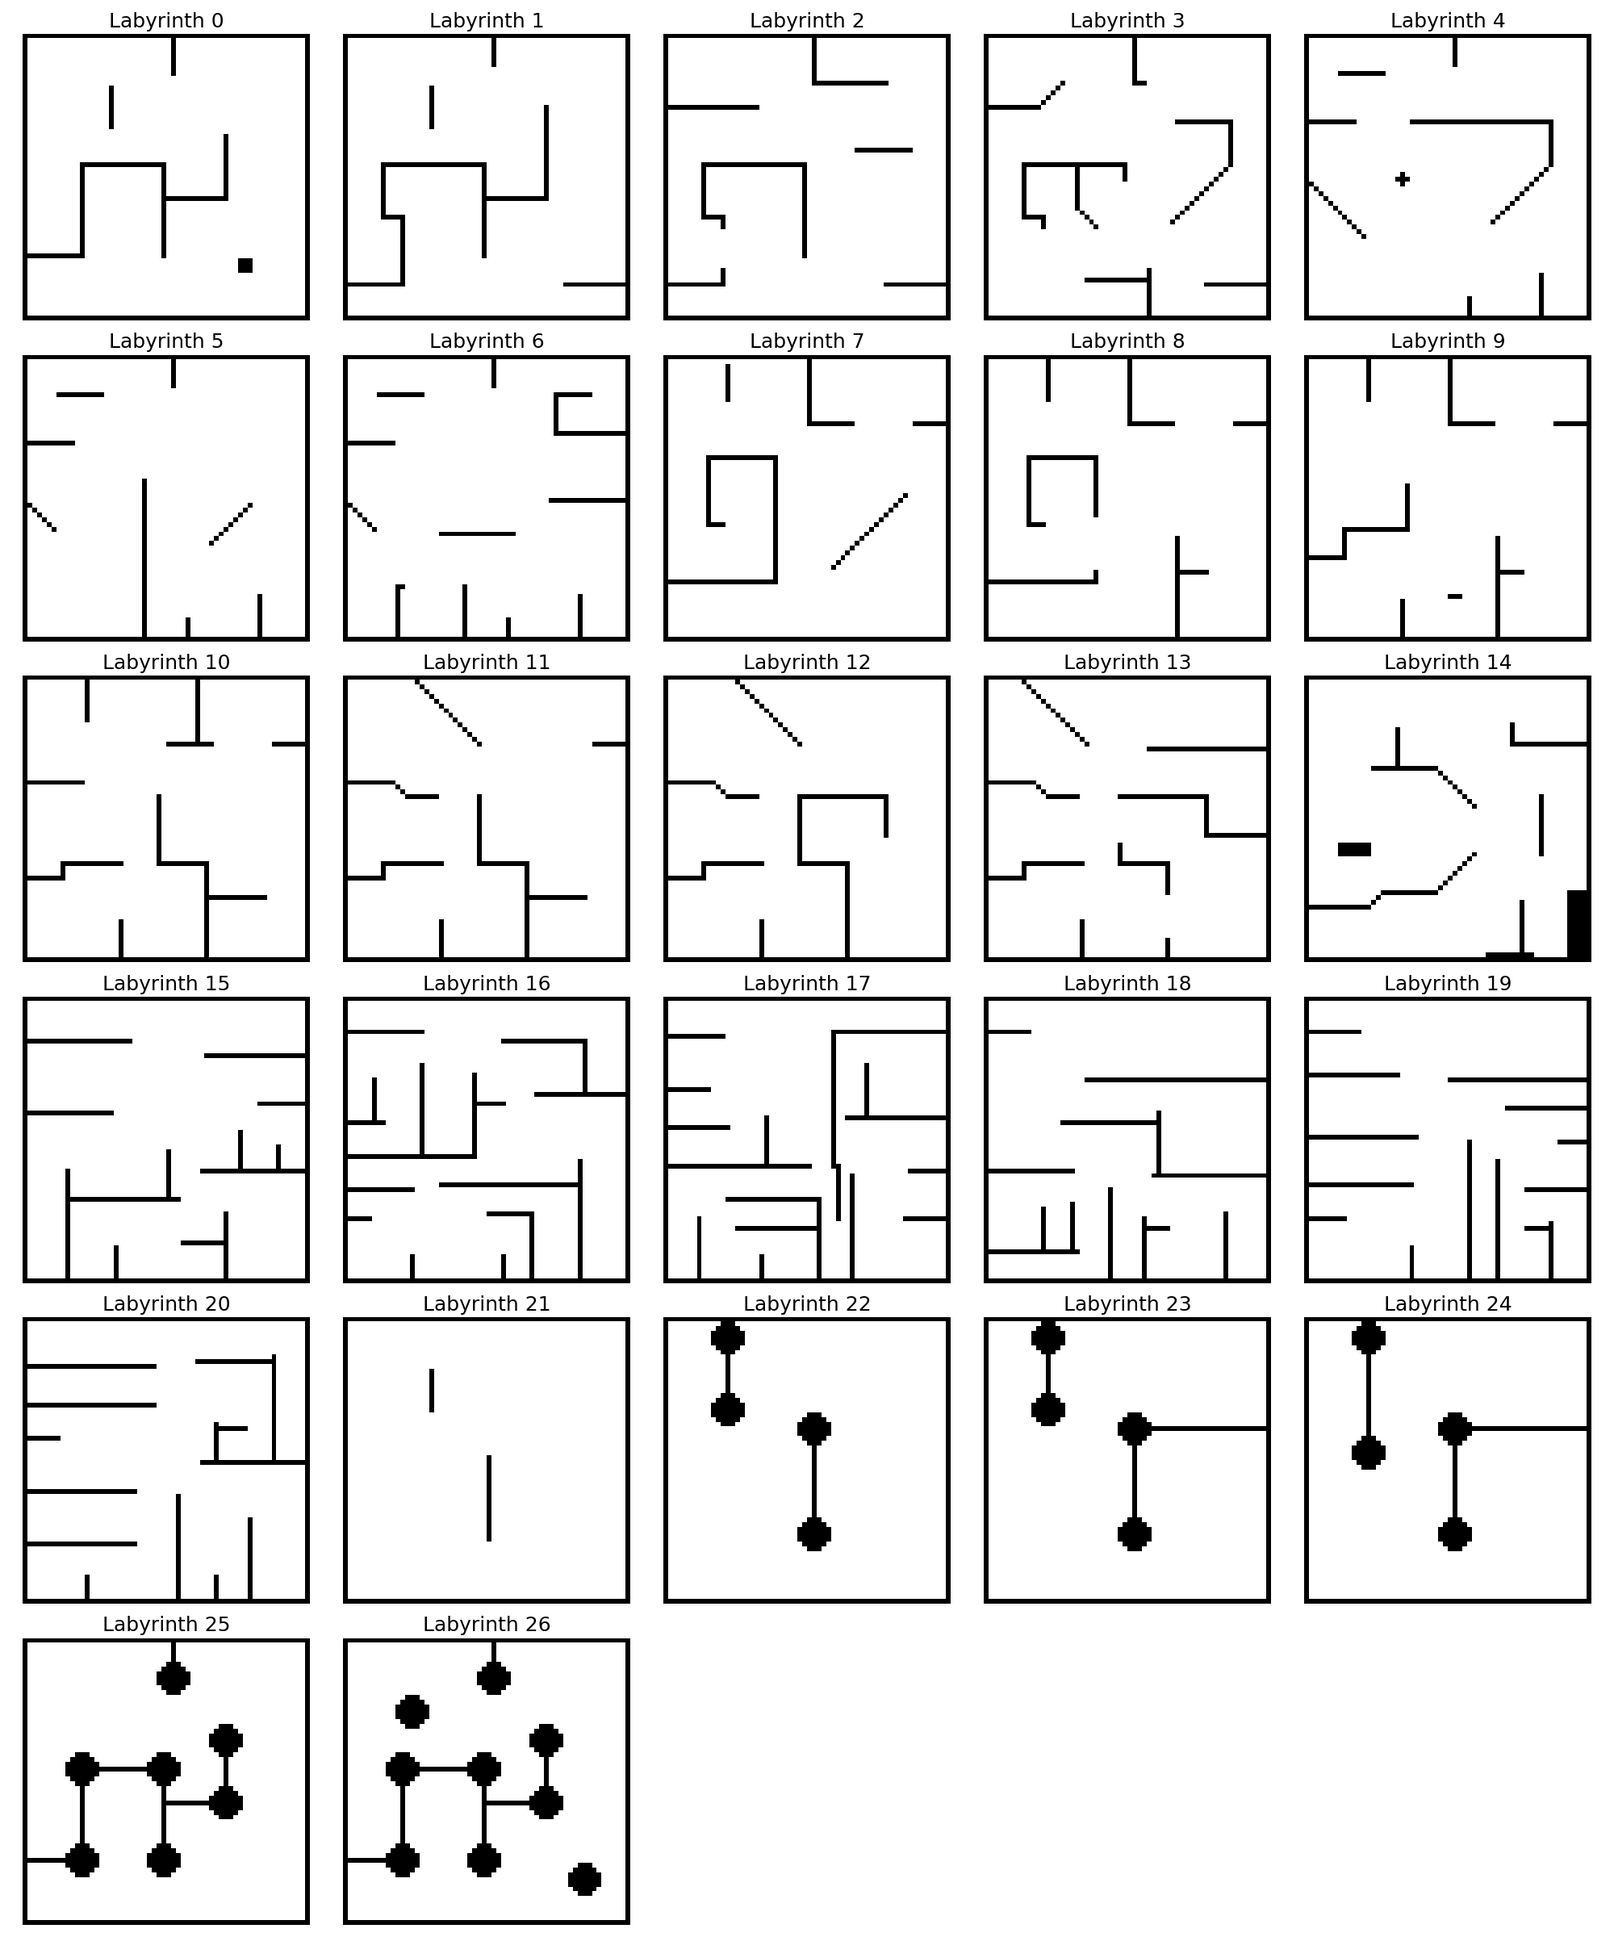
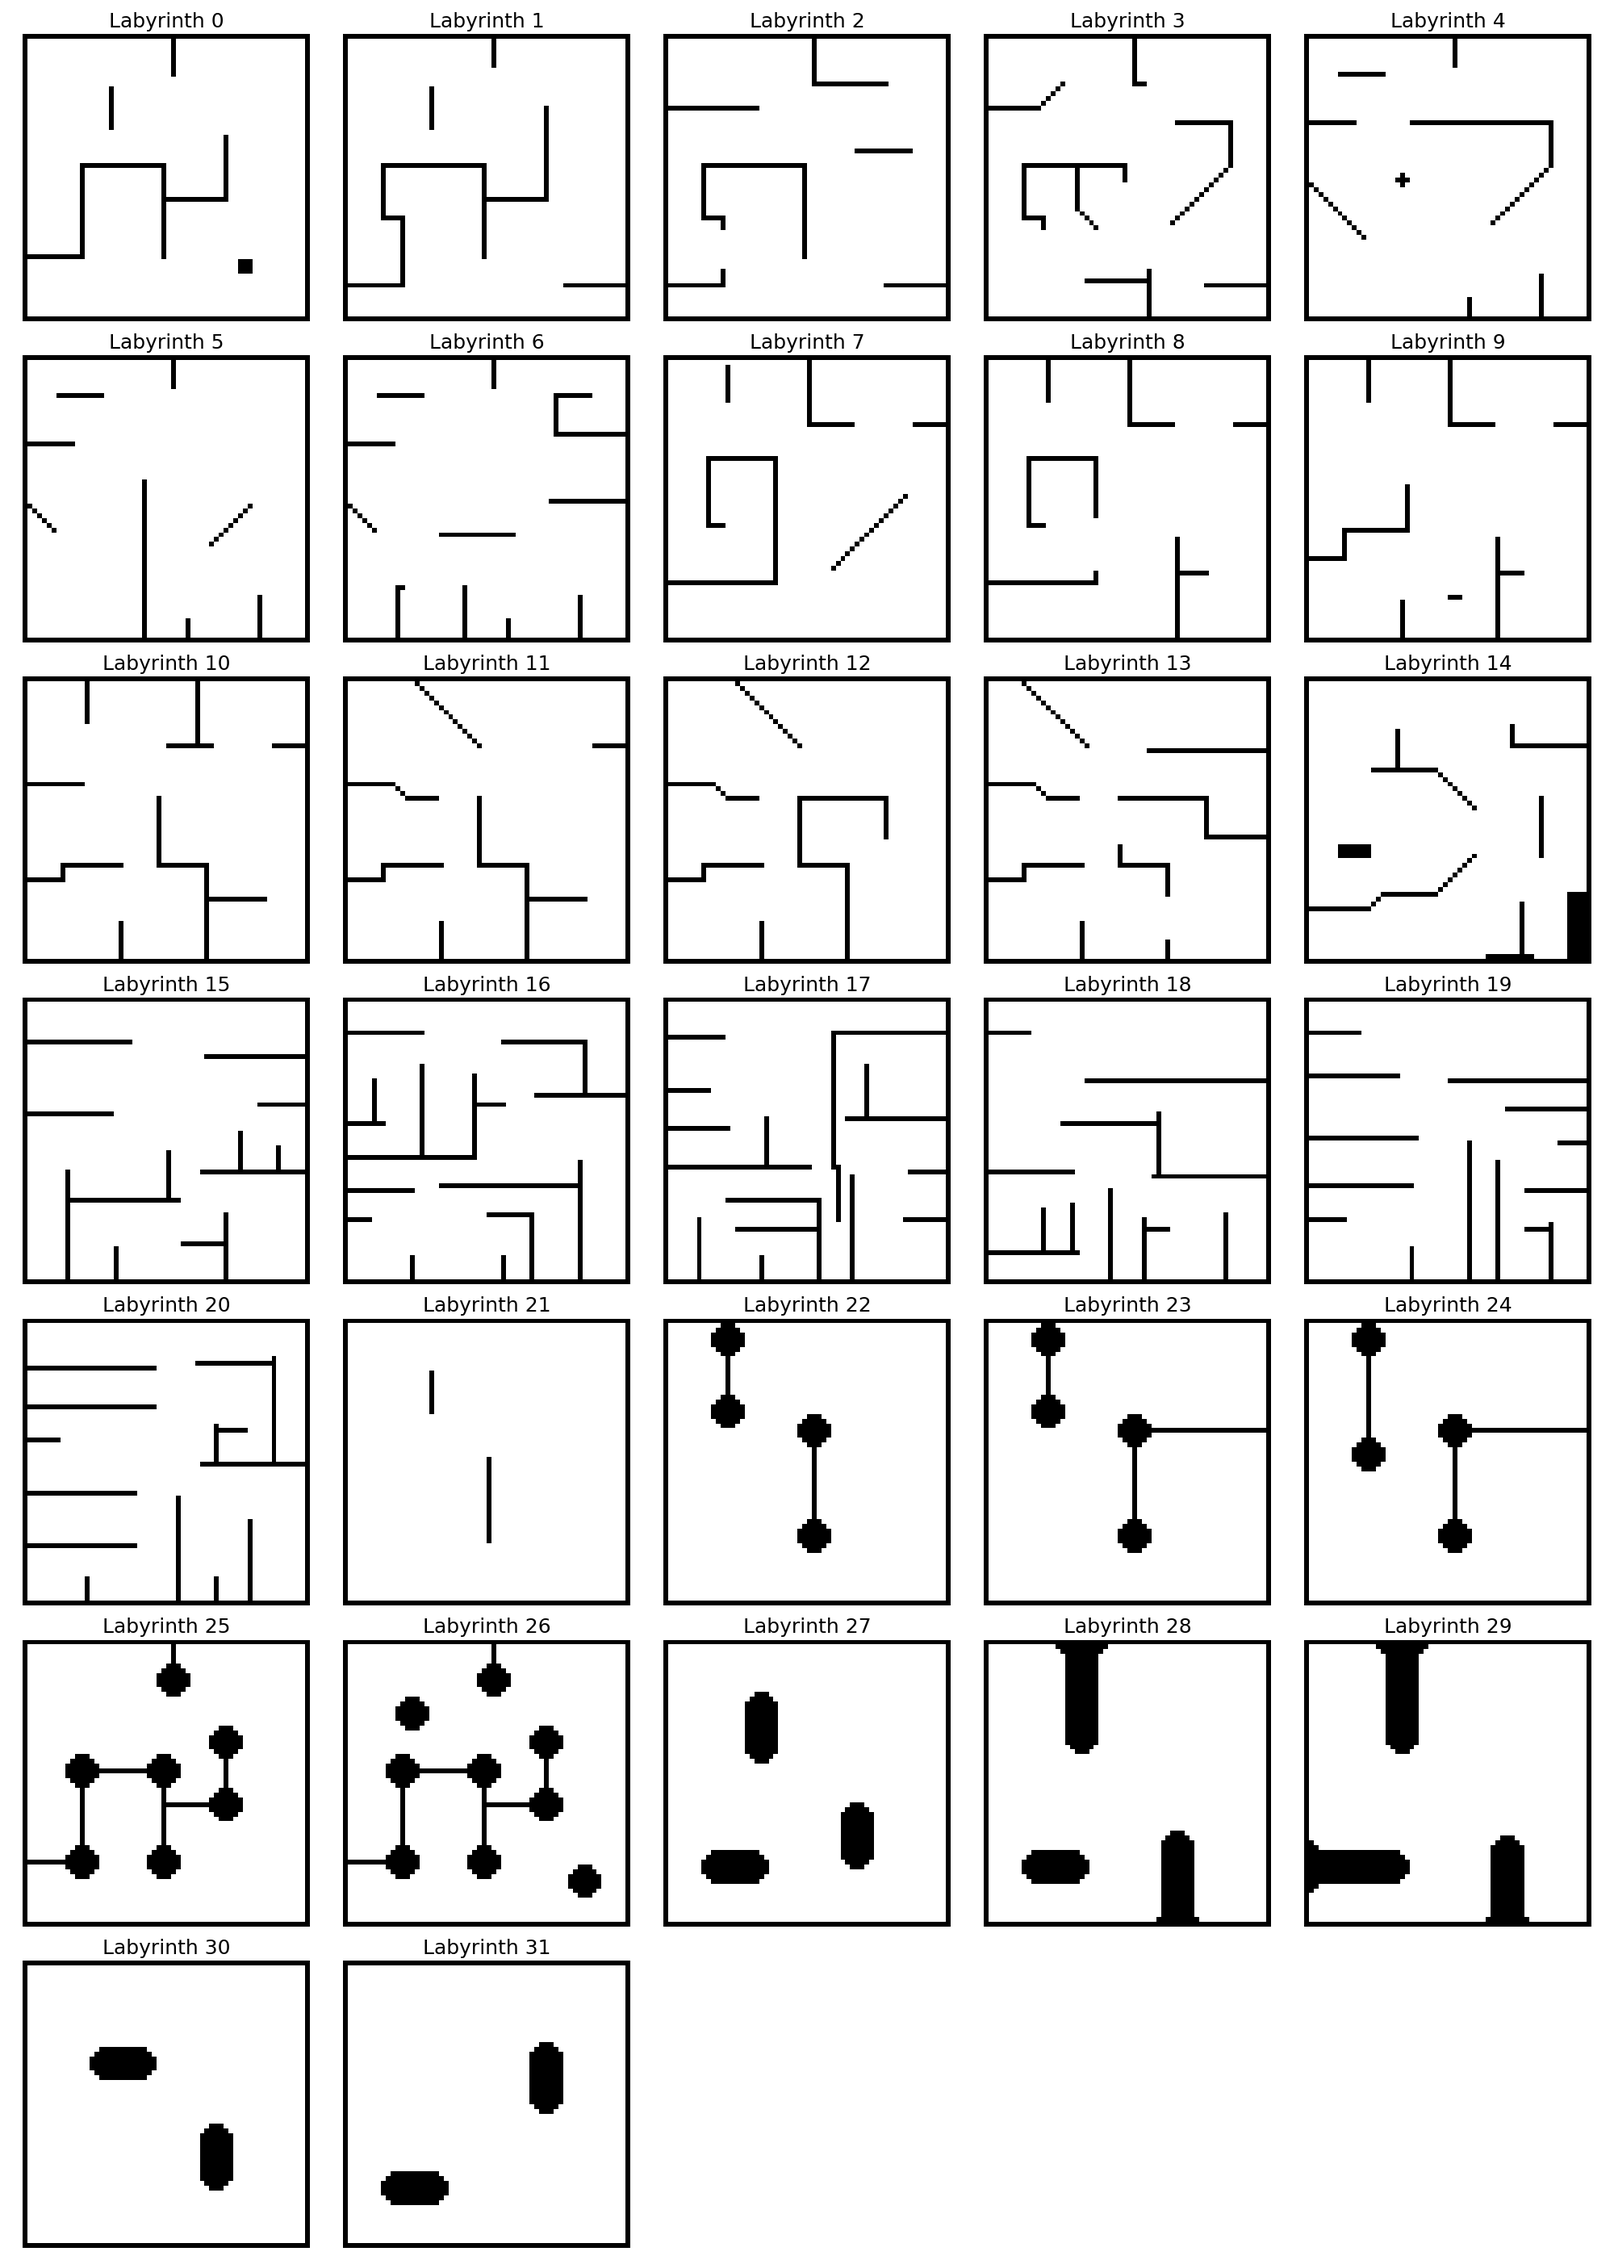
neue bilder erstellt

diff --git a/gym_pybullet_drones/examples/MAZE_TRAINING/Mazes_Images/MazeImage-generator.py b/gym_pybullet_drones/examples/MAZE_TRAINING/Mazes_Images/MazeImage-generator.py
@@ -46,7 +46,7 @@ for csv_file in csv_files:
 # ----------------------
 image_files = sorted([f for f in os.listdir(script_dir) if f.endswith(".png") and "map_" in f], key=lambda x: int("".join(filter(str.isdigit, x))))
 
-fig, axes = plt.subplots(6, 5, figsize=(20, 24))
+fig, axes = plt.subplots(7, 5, figsize=(20, 28))
 # Increase vertical spacing between subplots
 plt.subplots_adjust(hspace=0.4)
 axes = axes.flatten()
